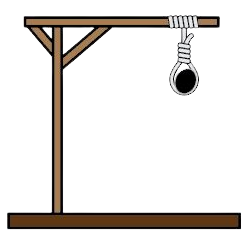
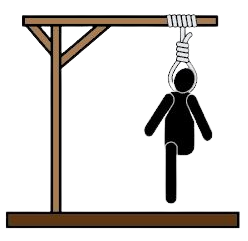
working on funcionality

Changed region(s): [[0.0, 0.0583, 0.9879, 0.9625]]

diff --git a/scrypt.js b/scrypt.js
@@ -8,6 +8,7 @@ const btnLetterElement = document.querySelector(".btn-letters");
 const wordElement = document.querySelector(".word");
 
 let img = document.createElement("img");
+let counter = 6;
 
 const lettersAlphabet = [
   "a",
@@ -41,18 +42,7 @@ const lettersAlphabet = [
   "џ",
   "ш",
 ];
-const hiddenWord = "kрагујевац";
-const hiddenWordArray = hiddenWord.split("").splice(0, hiddenWord.length, "_");
-
-const displayHiddenWord = () => {
-  hiddenWordArray.map((e) => {
-    let letter = document.createElement("li");
-    letter.classList.add("letter");
-    letter.innerHTML = e;
-    wordElement.appendChild(letter);
-  });
-};
-displayHiddenWord();
+const hiddenWord = "мали мокри луг";
 
 (function () {
   lettersAlphabet.map((let) => {
@@ -65,12 +55,10 @@ displayHiddenWord();
   });
 })();
 
-let counter = 0;
-
 btnCounterElement.addEventListener("click", (e) => {
   e.preventDefault();
-  if (counter <= 5) {
-    counter++;
+  if (counter > 0) {
+    counter--;
     counterElement.textContent = `Број поена: ${counter}`;
     document.querySelector(".firstImage").style.display = "none";
     img.src = `images/vesalice_${counter}.png`;
@@ -83,29 +71,39 @@ btnCounterElement.addEventListener("click", (e) => {
 btnResetElement.addEventListener("click", (e) => {
   e.preventDefault();
   modalElement.style.display = "none";
-  counter = 0;
+  counter = 6;
   counterElement.textContent = `Број поена: ${counter}`;
   img.src = `images/vesalice_${counter}.png`;
 });
 
 const checkLetters = () => {
+  hiddenWord.split("").map((e) => {
+    e.includes(" ") ? (e = " ") : (e = "_");
+
+    let letter = document.createElement("li");
+    letter.classList.add("letter");
+    letter.innerHTML = e;
+    wordElement.appendChild(letter);
+  });
+
   btnLetterElement.addEventListener("click", (e) => {
     e.preventDefault();
     const chosenLetter = e.target.innerHTML;
-    console.log(hiddenWordArray, chosenLetter);
-    if (hiddenWordArray.includes(chosenLetter)) {
-      console.log("yes");
-    } else {
-      if (counter <= 5) {
-        counter++;
-        counterElement.textContent = `Број поена: ${counter}`;
-        document.querySelector(".firstImage").style.display = "none";
-        img.src = `images/vesalice_${counter}.png`;
-        containerElement.prepend(img);
-      } else if (counter === 6) {
-        modalElement.style.display = "";
-      }
-    }
+    console.log(hiddenWord, chosenLetter);
+
+    // if (hiddenWordArray.includes(chosenLetter)) {
+    //   console.log("yes");
+    // } else {
+    //   if (counter > 0) {
+    //     counter--;
+    //     counterElement.textContent = `Број поена: ${counter}`;
+    //     document.querySelector(".firstImage").style.display = "none";
+    //     img.src = `images/vesalice_${counter}.png`;
+    //     containerElement.prepend(img);
+    //   } else if (counter === 0) {
+    //     modalElement.style.display = "";
+    //   }
+    // }
   });
 };
 
